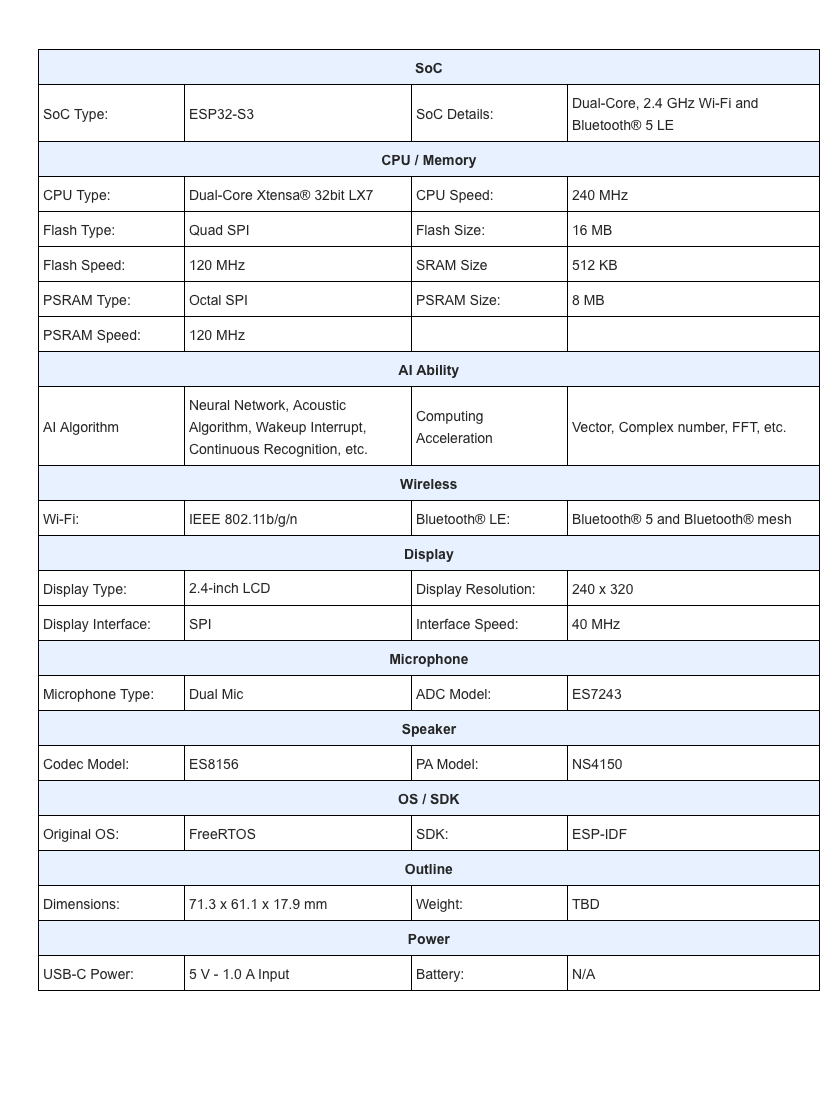
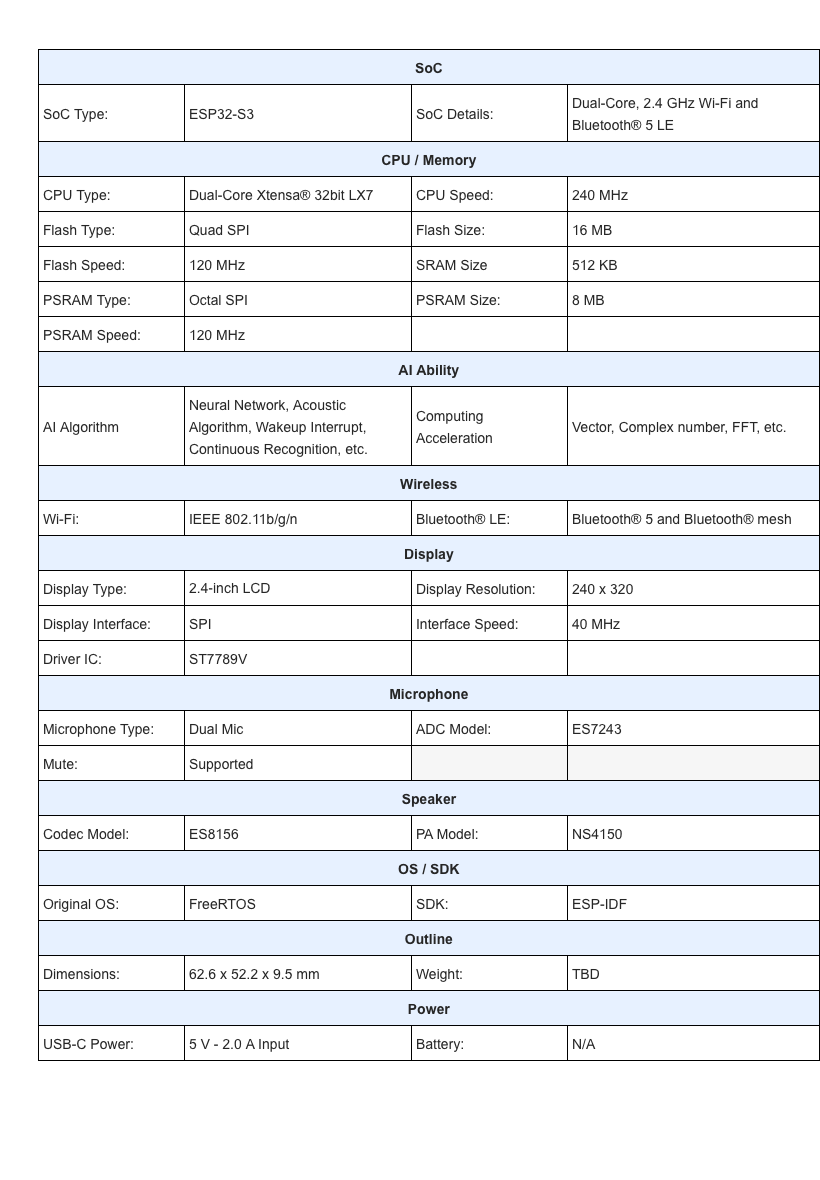
docs: add driver IC and update readme and firmware download part

diff --git a/docs/technical_architecture.md b/docs/technical_architecture.md
@@ -32,7 +32,7 @@ ESP-SR is a speech recognition framework developed by Espressif for the field of
 
 ESP-HMI is a human-computer interaction solution designed by Espressif based on the open-source GUI framework LVGL. With the powerful computing and peripheral resources in ESP32-S3, it can achieve excellent data visualization, touch control, and other functions:
 
-1. Screen driver library: compatible with a variety of mainstream 8080, SPI, I2C interface color screens, monochrome screens, touch screens, and provide a uniform display driver interface. Developers can directly use the adapted screen controller or add their screens according to the display driver interface. And the UI interface can be deployed to a variety of screens.
+1. Screen driver library: compatible with a variety of mainstream RGB, 8080, SPI, I2C interface color screens, monochrome screens, touch screens, and provide a uniform display driver interface. Developers can directly use the adapted screen controller or add their screens according to the display driver interface. And the UI interface can be deployed to a variety of screens.
 2. Open source UI templates: Espressif has designed multiple open source UI templates suitable for IoT control panels, multimedia players, voice assistants, and other different IoT scenarios, which can help developers carry out more professional secondary development.
 3. Hardware design reference: Espressif provides hardware reference designs, circuit schematics, and development guides related to screen applications to help developers quickly complete hardware designs.
 
@@ -50,5 +50,11 @@ With the help of ESP32-S3 Xtensa® 32bit LX7 dual-core CPU and AI / DSP extended
 
 **Device Drivers**
 
+Device driver is the foundation base of the framework layer, which provides the interface for the framework layer to control peripheral devices. [ESP-IoT-Solution](https://github.com/espressif/esp-iot-solution) provides rich
+open source device drivers for the development of IoT system, which works as extra components of ESP-IDF and much easier to start. It contains device drivers for sensors, display, audio, input, USB, etc.
+
 ### Application Layer
 
+**Voice Assistance**
+
+The voice assistance allows the user to control the light on/off, change color, play/pause the music player and switch songs through voice commands. More interestingly, the device supports continuous recognition of multiple command words after wake-up. Continuous recognition means that the user can talk to the device continuously once it is woken up.

diff --git a/README_cn.md b/README_cn.md
@@ -26,9 +26,10 @@ ESP-BOX 是乐鑫信息科技发布的新一代 AIoT 应用开发平台。ESP32-
 
 ## 版本信息
 
-|  ESP-Box  |                        依赖的 ESP-IDF                        |                           分支信息                           | 支持状态                                                |
+|  ESP-BOX  |                        依赖的 ESP-IDF                        |                           分支信息                           | 支持状态                                                |
 | :-------: | :----------------------------------------------------------: | :----------------------------------------------------------: | ------------------------------------------------------- |
 |  master   |            release/v4.4<br/>commit id: 2bdea81b2a            | Latest developing firmware <br/>esp-sr version:  dev/v2.0<br/>commit id: c873a35 | 新功能开发分支，兼容  ESP32-S3-BOX 和 ESP32-S3-BOX-Lite |
+|  Tag 0.3.0   |            release/v4.4<br/>commit id: 2bdea81b2a            | esp-sr version: dev/v2.0<br/>commit id: c873a35 | 兼容  ESP32-S3-BOX 和 ESP32-S3-BOX-Lite |
 | Tag 0.2.1 | release/v4.4 with [patch](https://github.com/espressif/esp-box/tree/v0.2.1/idf_patch) |      esp-sr version: close v1.0<br/>commit id: 3ce34fe       | 仅支持 ESP32-S3-BOX                                     |
 | Tag 0.1.1 | Release/v4.4 with [patch](https://github.com/espressif/esp-box/tree/v0.1.1/idf_patch) |        esp-sr version: v0.9.6<br/>commit id: 3ce34fe         | 仅支持 ESP32-S3-BOX                                     |
 

diff --git a/README.md b/README.md
@@ -26,9 +26,10 @@ The ESP-BOX is a new generation AIoT development platform released by Espressif 
 
 ## Versions
 
-|      ESP-Box     | Dependent ESP-IDF |  Branch Note                                           | Support State  |
+|      ESP-BOX     | Dependent ESP-IDF |  Branch Note                                           | Support State  |
 | :--------------: | :---------------: | :----------------------------------------------------: | -------------- |
 |      master      | release/v4.4<br>commit id: 2bdea81b2a |  Latest developing firmware <br/>esp-sr version:  dev/v2.0<br>commit id: c873a35  | New feature develop, compatible with ESP32-S3-BOX and ESP32-S3-BOX-Lite |
+|      Tag 0.3.0     | release/v4.4<br>commit id: 2bdea81b2a | esp-sr version:  dev/v2.0<br>commit id: c873a35  | Compatible with ESP32-S3-BOX and ESP32-S3-BOX-Lite |
 | Tag 0.2.1 | release/v4.4 with [patch](https://github.com/espressif/esp-box/tree/v0.2.1/idf_patch) | esp-sr version: close v1.0<br/>commit id: 3ce34fe | Support ESP32-S3-BOX only |
 | Tag 0.1.1 | release/v4.4 with [patch](https://github.com/espressif/esp-box/tree/v0.1.1/idf_patch) | esp-sr version: v0.9.6<br/>commit id: 3ce34fe | Support ESP32-S3-BOX only |
 

diff --git a/docs/firmware_update_cn.md b/docs/firmware_update_cn.md
@@ -12,23 +12,7 @@ BOX 系列开发板支持使用 USB 接口更新固件，你仅需要准备：
 
 ## 下载最新版本固件
 
-我们有两种版本的最新固件，一个是开发中的固件，您可以下载后体验新功能，另外一个是正式发布的固件，相比于开发中的固件，正式发布的固件不包含最新功能但是会更稳定。
-
-### 开发中的固件
-
-下载最新开发中的固件，请访问：https://github.com/espressif/esp-box/actions
-
-1. 点击工具栏的 `Action`
-2. 选择最新的 workflow
-3. 下载 `factory-firmware`
-
-<div align="center">
-<img src="_static/Action.jpg" width="500px">
-</div>
-
-### 正式发布的固件
-
-下载最新发布固件，请访问：https://github.com/espressif/esp-box/releases
+下载最新发布的固件，请访问：https://github.com/espressif/esp-box/releases
 
 1. 请先选择一个固件（建议使用最新 release）
 2. 点击 `Assets` 展开下载链接

diff --git a/docs/firmware_update.md b/docs/firmware_update.md
@@ -12,22 +12,6 @@ The BOX series development boards support updating firmware through USB, you jus
 
 ## Latest Firmware Download
 
-We have two kinds of firmware, the latest developing firmware and the latest release firmware. Flashing developing firmware, you can experiance the new features, flashing latest release firmware, which is more stable than the developing firmware but does not contain new features.
-
-### Latest developing firmware
-
-For the developing firmware, please refer to: https://github.com/espressif/esp-box/actions
-
-1. Click the `Action`
-2. Choose the latest the workflow
-3. Download the `factory-firmware`
-
-<div align="center">
-<img src="_static/Action.jpg" width="500px">
-</div>
-
-### Latest release firmware
-
 For the latest firmware, please refer to: https://github.com/espressif/esp-box/releases
 
 1. Choose the latest release version

diff --git a/docs/_static/_table/specs_for_lite.md b/docs/_static/_table/specs_for_lite.md
@@ -96,6 +96,12 @@
     <td class="tg-zr06">40 MHz</td>
   </tr>
     <tr>
+    <td class="tg-ycr8">Driver IC:</td>
+    <td class="tg-ycr8">ST7789V</td>
+    <td class="tg-ycr8"></td>
+    <td class="tg-ycr8"></td>
+  </tr>
+    <tr>
     <td class="tg-o2c7" colspan="4"><span style="font-weight:bold">Microphone</span></td>
   </tr>
   <tr>

diff --git a/docs/_static/_table/specs_for_box.md b/docs/_static/_table/specs_for_box.md
@@ -102,6 +102,12 @@
     <td class="tg-zr06">10</td>
   </tr>
   <tr>
+    <td class="tg-ycr8">Driver IC</td>
+    <td class="tg-ycr8">ILI9342C</td>
+    <td class="tg-ycr8"></td>
+    <td class="tg-ycr8"></td>
+  </tr>
+  <tr>
     <td class="tg-o2c7" colspan="4"><span style="font-weight:bold">Microphone</span></td>
   </tr>
   <tr>
